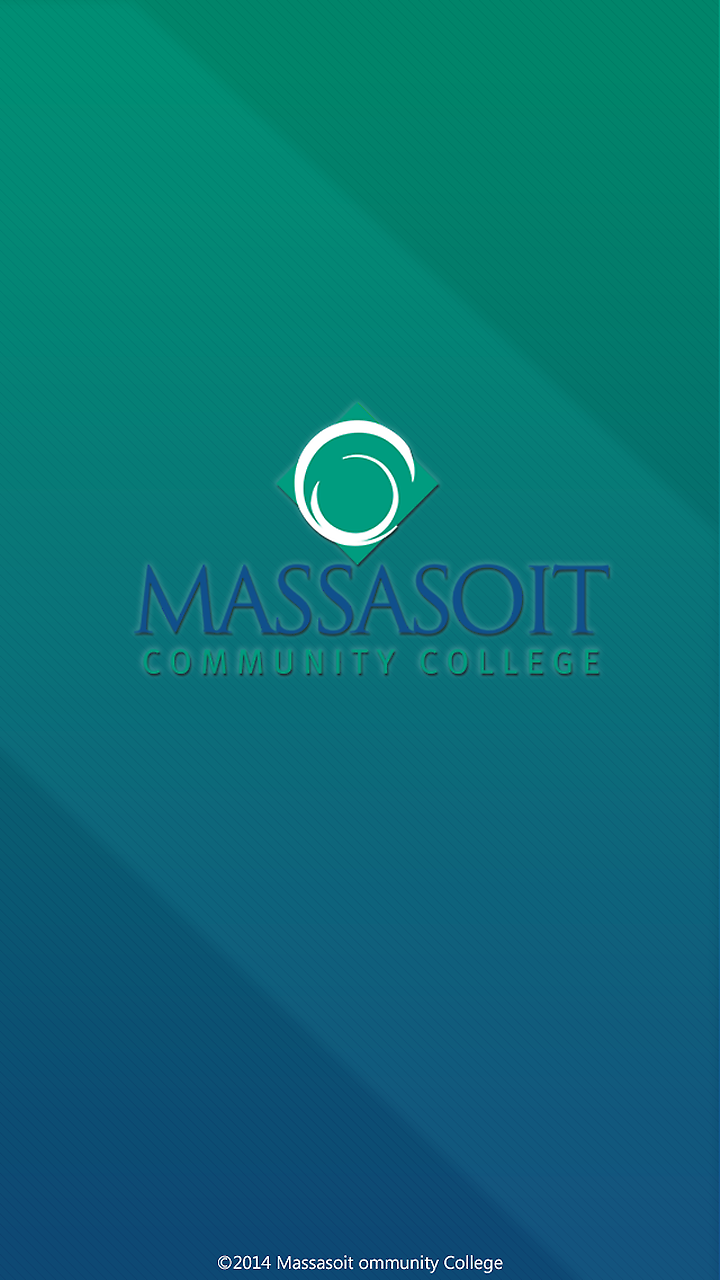
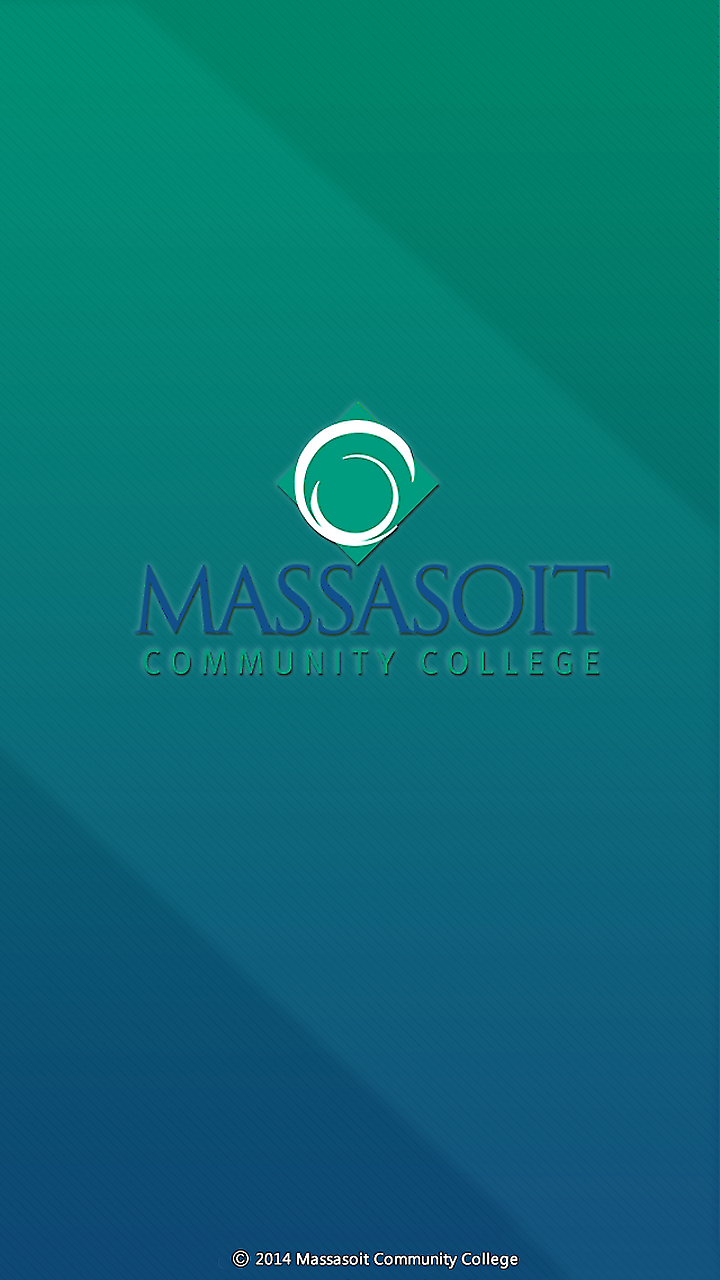
splashscreen metadata updated

diff --git a/partials/help.html b/partials/help.html
@@ -52,18 +52,13 @@
             <a class="list-group-item active">Report an issue</a>
             <div class="list-group-item">
                 <p class="help-text">
-                    If you encounter any issues with the app, please use the 'Report Issue' menu under the sidebar to report the same
-                    in an email. Please attach screenshots if any.
+                    If you encounter an issue with the app, please use the ‘Report Issue’ option located in the sidebar menu. Please attach screenshots if possible to this message.
                 </p>
             </div>
             <a class="list-group-item active">Troubleshooting</a>
             <div class="list-group-item">
                 <p class="help-text">
-                    If you encounter issues related to the app icons not loading after the metadata update, use
-                    Troubleshooting option under settings menu from the sidebar. Press the 'Reset My App' button
-                    to reset it to default state. Note: You will get an update manager popup after a reset, press 'Yes'
-                    to update the app. During this process do not minimize the app, as it can corrupt the metadata.
-                    If the metadata gets corrupted then you need to reset it again.
+                    If the MyMassasoit App fails to function properly, user the Troubleshooting option located in the sidebar menu. (You must select yes when prompted to proceed with an application reset) Do not minimize or close the application during this process.
                 </p>
             </div>
 

diff --git a/partials/settings.html b/partials/settings.html
@@ -9,7 +9,7 @@
             </div>
             <div style="margin:0px 15px;">
                 
-                <p class="alert alert-danger">Reset cleans up the metada information of your app and initializes the app with the default setting. You can use this function if you encounter any issue with the App and it is not functioning as expected. In case if you are not seeing the app icons on the home screen resetting the App would resolve the issue.Please ensure that you have network connectivity before Resetting the App.
+                <p class="alert alert-danger">By resetting the application, the metadata is removed from the app, restoring it to its original configuration. Use this function if you encounter difficulties in using the features in the application (such as missing icons). Before choosing to reset the application, ensure you have network connectivity.
                 </p>
                 <button class="btn btn-block btn-primary" ng-click="resetmyapp();">Reset my App</button>
                 
